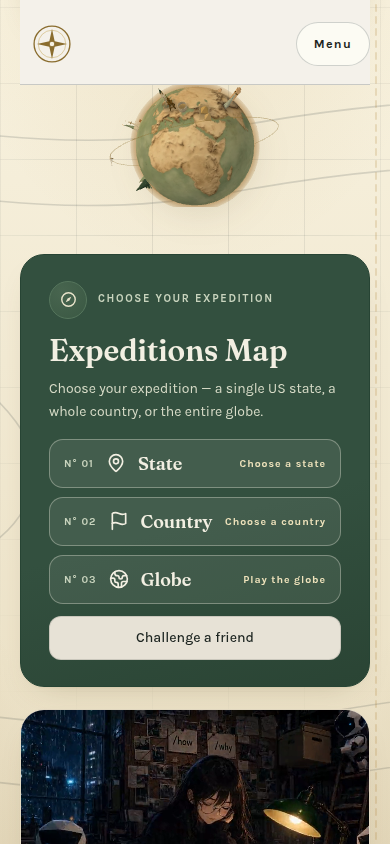
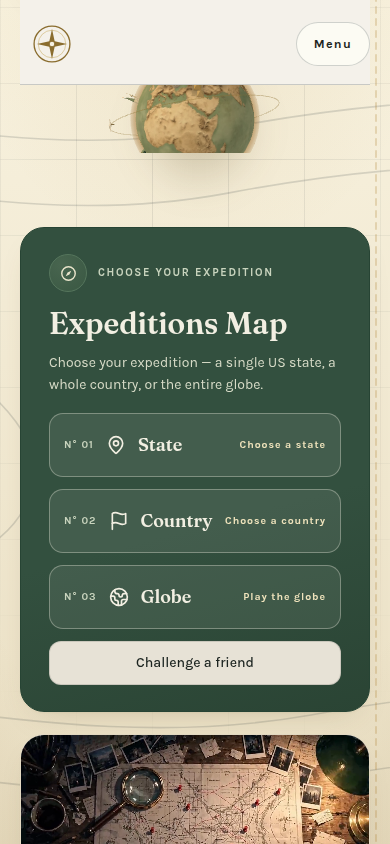
Rebalance the map card in the mocks and restore the mountain scene at tablet and phone widths

diff --git a/docs/branch-status/feat-landmark-globe.md b/docs/branch-status/feat-landmark-globe.md
@@ -63,6 +63,17 @@ Captures: `docs/motion-verify/landmark-globe-mockup-1280px.png` (1280 x 900, ful
 - Captures re-taken: `landmark-globe-in-prod-full-1280px.png` (1280 x 3642), `landmark-globe-in-prod-full-768px.png` (768 x 3520), `landmark-globe-in-prod-full-390px.png` (390 x 5941), plus the hero-framed `landmark-globe-in-prod-1280px.png` and `landmark-globe-in-prod-390px.png`.
 - Contract: section 3.6 now carries the Stage 2 carry-over — production removes the `hv5-worldmap` SVG from the Expeditions Map card and tightens the card layout to match this approved mock. No production code changed in this addendum.
 
+## Addendum 5 — card layout adjusted in the component system + mountain scene restored at <=1080px (owner corrections, Nov 19 2026)
+
+- Owner correction 1: the addendum-4 margin nudge (12 -> 16 px in a staged copy) is not a layout adjustment. The cards are components in a shell and the layout must be adjusted in that context. Owner correction 2 (escalation): in mobile and tablet layout the mountain climbing animation asset is completely removed — it must be present on tablet + mobile.
+- Component/shell findings [measured from main `cef9af3c` code]: the Expeditions Map card is NOT its own component — it is inline JSX in `src/components/game-app.tsx` (the `.hv5-card.hv5-mapcard` div, ~line 5189), living in `.hv5-rail`, the right column of the `.hv5-bento` grid (hero card 2.24fr + rail 0.92fr, gap 22px). The rail stacks the globe zone (aspect-ratio 1, margin-bottom -92px) over the card; the card carries `flex: 1`, so on desktop it stretches to the hero's height (measured 939 px at 1280) while its content is ~480 px — the removed world-map band (~150 px) plus the stretch is the space to rebalance. All Home cards share one system in `src/components/home-v5.css`: `.hv5-card` padding 26px 28px, radius 24px, flex column; stretched sibling cards pin their CTA to the foot (`.hv5-go { margin-top: auto }`). `.hv5-editions` is used by this card only. At <=1080px the bento stacks to one column and the card takes natural height.
+- Mountain finding [measured]: the climbing scene is the hero's `.hv5-mtn-wrap` (painted art + trail overlay + trekker overlay, sliced to one box, 800/533). A shipped rule `@media (max-width: 1080px) { .hv5-mtn-wrap { display: none } }` in home-v5.css kills the whole scene at tablet and phone widths in prod today; this staging did not cause it.
+- Design pass: three seats staffed from the owner's persona packs, files loaded verbatim — UI designer (`ui-designer.toml`), UX researcher (`ux-researcher.toml`), frontend developer (`frontend-developer.toml`); no seat vacant. Converged layout (2 seats for using the card's auto-margin idiom; the UX seat's centring won over foot-pinning, its dissent against pinning recorded): `.hv5-editions` centres in the freed height — `margin-top: auto; margin-bottom: auto; padding-top: 16px` (floor gap at natural height); gap 16px (12px at <=680px); `.hv5-edition` min-height 48 -> 64 px. The UI seat's grow-the-rows alternative and the frontend seat's foot-pin were both considered; centring splits the freed space so no single void pools, and the Challenge button stays foot-anchored like sibling CTAs.
+- Staged mock (staging checkout only; production untouched): the converged card rules + the mountain restore — the <=1080px display:none rule removed, and at <=680px `.hv5-mtn-wrap { flex: 0 0 auto; margin: 20px -22px -32px; }` (bleed matched to the small-width hero padding; the frontend seat's correction, so the art's aspect ratio governs and the sliced overlays stay aligned).
+- Measured on the staged page [tested]: card — 1280: height 939 px, copy-to-first-row gap 239 px (the centred block), 3 rows at 64 px, overflow 0; 768: height 470 px, gap 16 px; 390: gap 16 px, rows and Challenge button tight under the copy; card crops read by eye at 1280 and 390 — heading group at top, row block grouped mid-card, Challenge at the foot, no dead gap, no crowding. Mountain — display block at 768 (694 x 462) and 390, image loaded, overflow 0 at both; animation verified running at both widths (two frames of the wrap captured 1.8 s apart differ at 768 and at 390); the 390 frame read by eye shows the full scene — summit flag, dotted trail, trekker mid-climb — aligned on the art.
+- Captures re-taken: `landmark-globe-in-prod-full-1280px.png`, `landmark-globe-in-prod-full-768px.png`, `landmark-globe-in-prod-full-390px.png`, `landmark-globe-in-prod-1280px.png`, `landmark-globe-in-prod-390px.png`.
+- Contract: section 3.6 Stage 2 carry-over expanded to name both production changes exactly (card rebalance in game-app.tsx/home-v5.css classes; mountain restore flagged as a behaviour change to live prod riding on the owner's mock approval).
+
 ## Next step
 
 - Owner reviews the mockup and the captures. Stage 2 (production code in the Home hero) starts only on the owner's approval.

diff --git a/docs/mockups/landmark-globe-contract.md b/docs/mockups/landmark-globe-contract.md
@@ -101,4 +101,7 @@ Pause button removed — owner ruling Nov 19 2026: the globe auto-loops; no play
 | Phone frame | 390 px wide, globe zone 260 px |
 | Readout | small fixed corner readout outside the hero, live renderer triangles and draw calls plus landmark totals, refreshed twice a second (changed in Stage 1: new, mockup only) |
 
-Stage 2 production change: remove the hv5-worldmap SVG from the Expeditions Map card and tighten the card layout to match the approved mock (owner ruling Nov 19 2026). In the approved mock the card keeps its badge, label, heading and copy, the State / Country / Globe rows sit 16 px under the copy, and the card's padding rhythm is unchanged.
+Stage 2 production changes (owner rulings Nov 19 2026; layout decided by a three-seat design pass — UI designer, UX researcher, frontend developer personas — and staged in the approved mock):
+
+1. Expeditions Map card (src/components/game-app.tsx + src/components/home-v5.css): delete the hv5-worldmap SVG (game-app.tsx, inside .hv5-mapcard) and its .home-v5 .hv5-worldmap rule. Rebalance the card in its own classes: .hv5-editions loses its fixed margin-top and instead centres in the height the band freed — margin-top: auto; margin-bottom: auto; padding-top: 16px (the floor gap at natural height); gap: 16px, and gap: 12px at <=680px. .hv5-edition min-height rises 48px to 64px. Badge, label, heading, copy, card padding (26px 28px) and the Challenge button (mt-3, foot-anchored like sibling card CTAs) are unchanged. On phone the card takes natural height with the rows 16 px under the copy; on desktop the row block sits centred in the stretched card.
+2. Mountain climbing scene on tablet and phone (src/components/home-v5.css) — a behaviour change to live prod, riding on the owner's approval of this mock: remove the @media (max-width: 1080px) rule that sets .hv5-mtn-wrap to display: none, and add to the <=680px block: .hv5-mtn-wrap { flex: 0 0 auto; margin: 20px -22px -32px; } (the bleed matches the <=680px hero padding; flex: 0 0 auto lets the art's aspect ratio govern the wrap height so the sliced trail and trekker overlays stay aligned). At 681–1080px the base wrap rule applies unchanged. In the approved mock the scene renders and animates at 768px and 390px (two captured frames differ at both widths), with no horizontal overflow.
